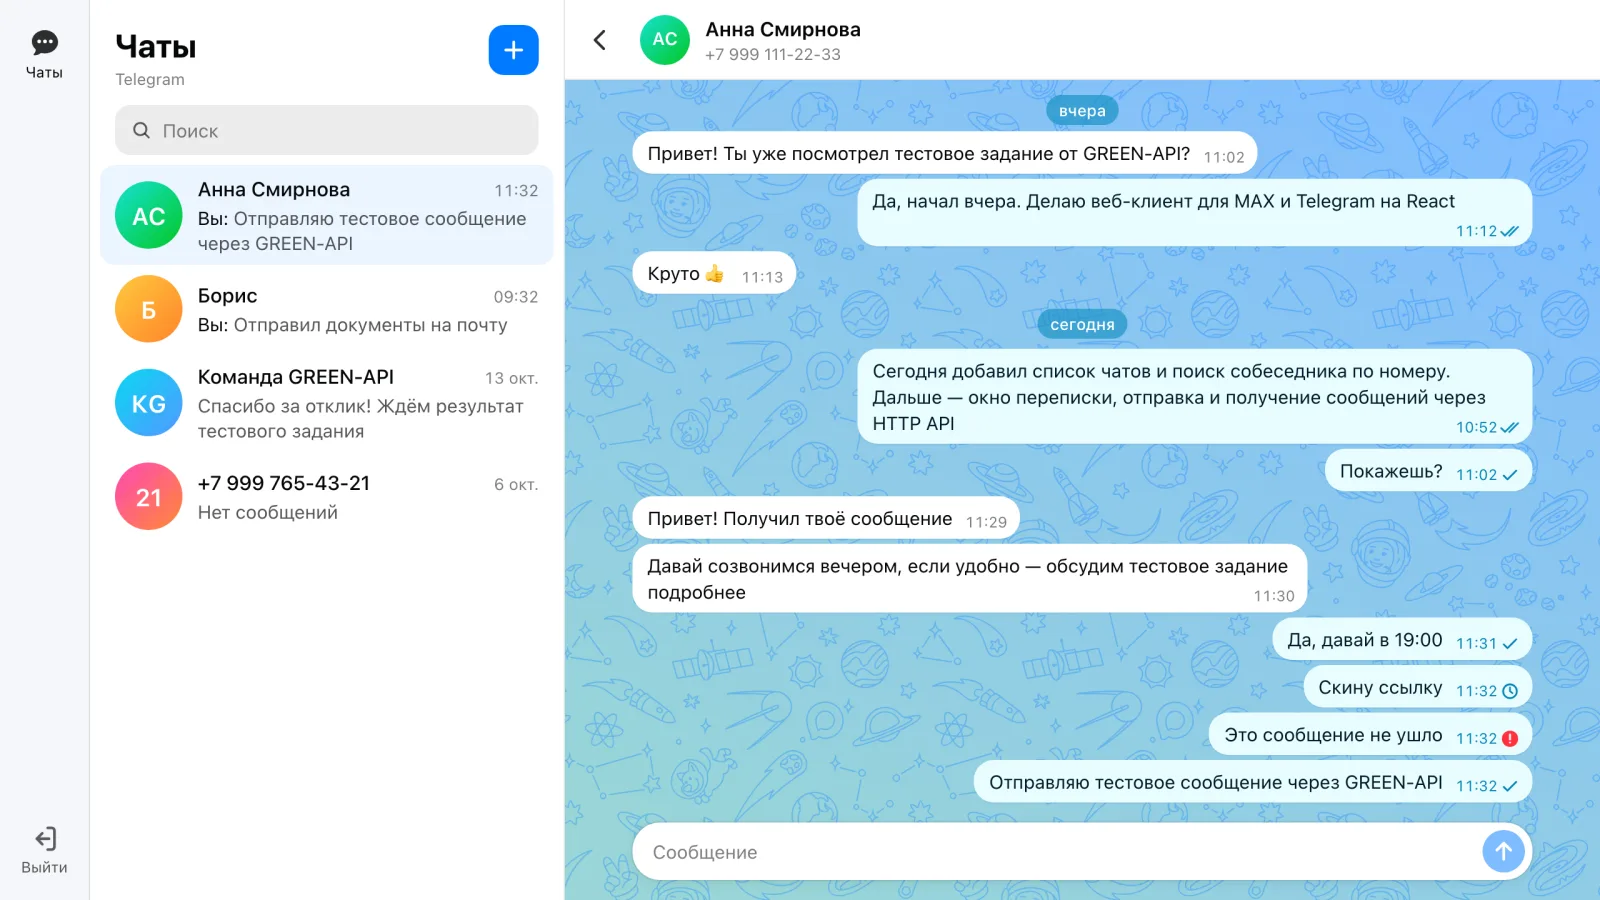
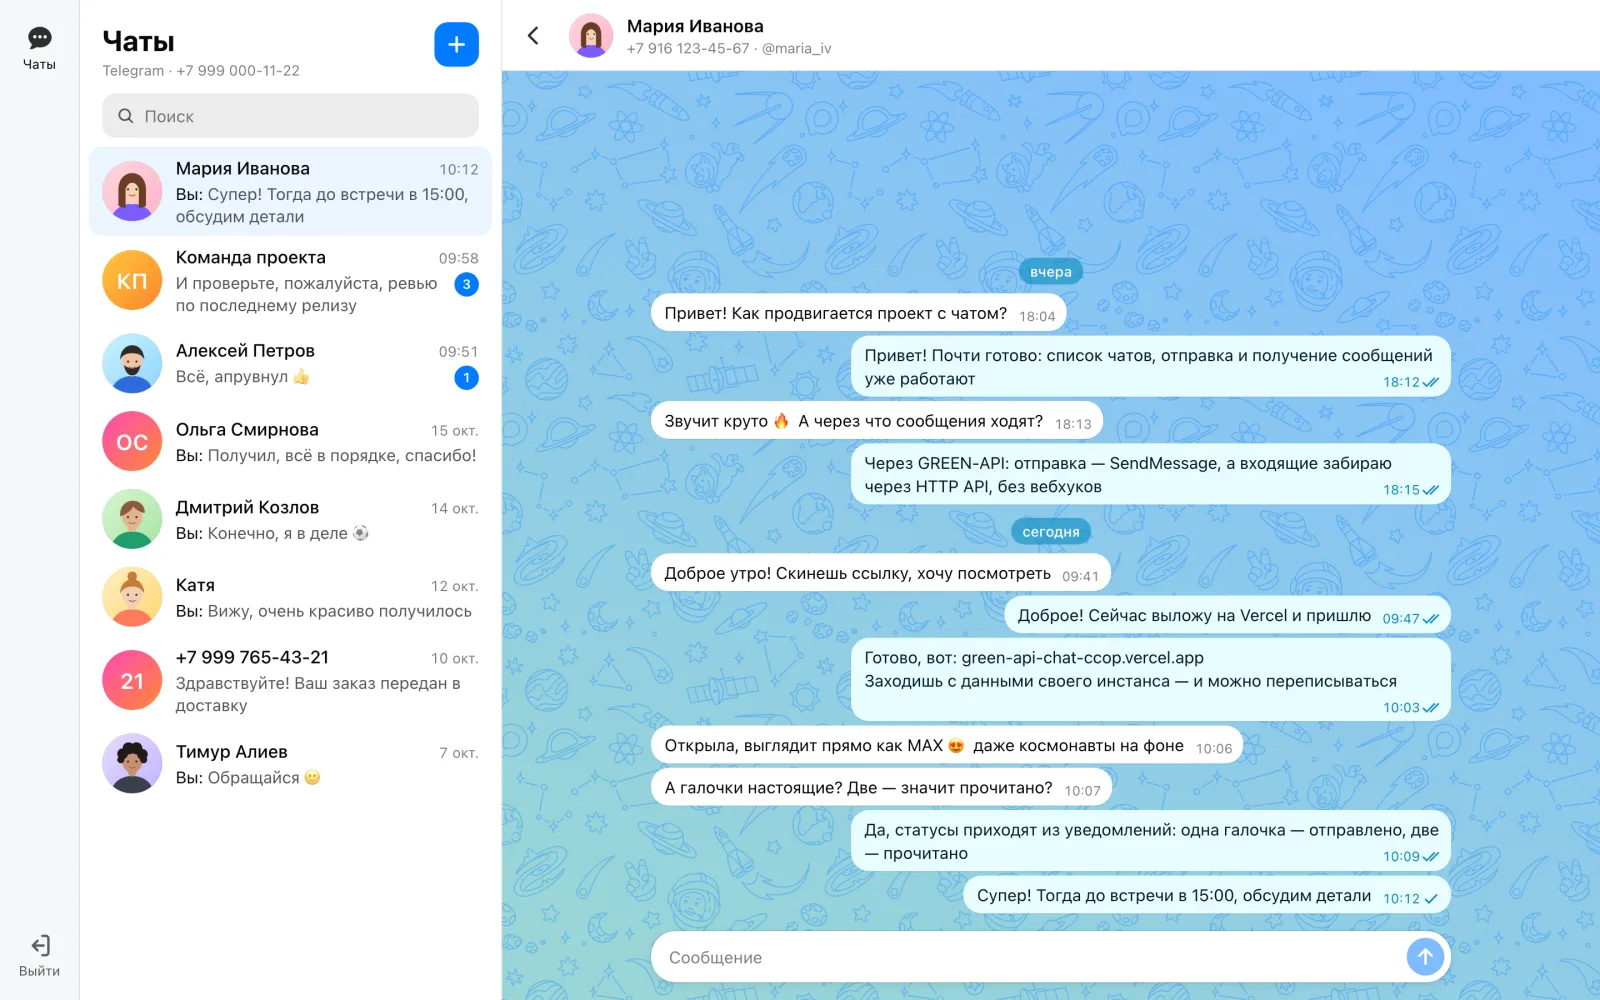
Обновлены скриншоты в README

diff --git a/README.md b/README.md
@@ -25,7 +25,7 @@
   <img src="docs/screenshots/mobile-chat.webp" alt="Переписка на телефоне" width="260">
 </p>
 
-На скриншотах — тестовые данные.
+На скриншотах — выдуманные собеседники и переписка, аватарки нарисованы.
 
 ## Возможности
 
